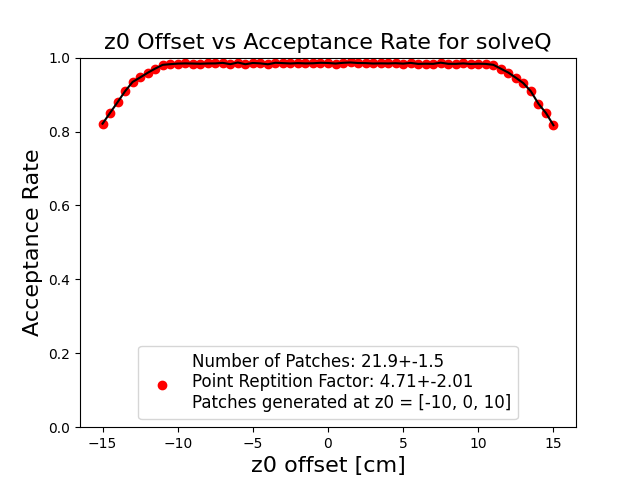
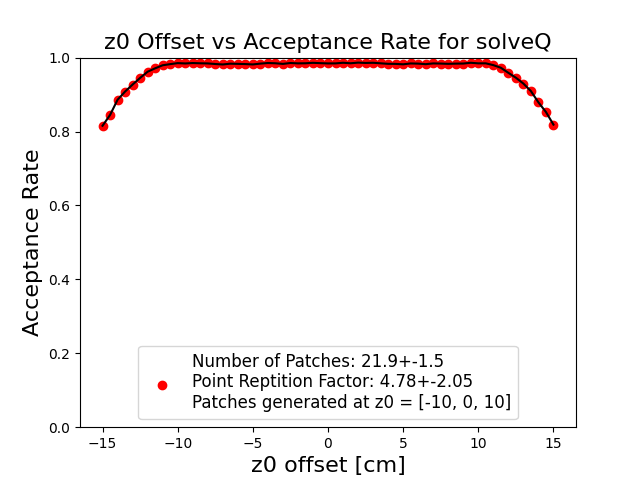
fixed most bugs in algo

diff --git a/cover.py b/cover.py
@@ -583,7 +583,7 @@ class Cover():
             start_index = np.argmin(np.abs(self.data.array[row] - (((-z0-100)*y)/25+z0)))
             if start_index != 0:
                 start_index -= 1
-            init_patch.append(SuperPoint(self.data.array[row, start_index:start_index+n]))
+            init_patch.append(SuperPoint(self.data.array[row][start_index:start_index+n]))
 
         #add to patch
         self.add_patch(Patch(self.env, tuple(init_patch)))
@@ -603,7 +603,7 @@ class Cover():
 
             if start_index != len(self.data.array[row])-1:
                 start_index += 1
-            init_patch.append(SuperPoint(self.data.array[row, start_index-n+1:start_index+1]))
+            init_patch.append(SuperPoint(self.data.array[row][start_index-n+1:start_index+1]))
 
         #add to patch
         self.add_patch(Patch(self.env, tuple(init_patch)))
@@ -676,12 +676,11 @@ class Cover():
         for row in range(5):
             y = 5*(row+1)
             center_index = np.argmin(np.abs(self.data.array[row] - ((y*(center-z0)/25)+z0)))
-            if (center_index -int(n/2)) < 0:
-                init_patch.append(SuperPoint(self.data.array[row, 0:n]))
-            elif (center_index +int(n/2)) > 150:
-                init_patch.append(SuperPoint(self.data.array[row, 150-n:150]))
-            else:
-                init_patch.append(SuperPoint(self.data.array[row, center_index-int(n/2):center_index+int(n/2)]))
+            if (center_index-int(n/2)) < 0:
+                center_index = int(n/2)
+            elif (center_index+int(n/2)) > len(self.data.array[row]):
+                center_index = center_index+int(n/2)-1
+            init_patch.append(SuperPoint(self.data.array[row][center_index-int(n/2):center_index+int(n/2)]))
         #add to patch
         self.add_patch(Patch(self.env, tuple(init_patch)))
 
@@ -729,8 +728,8 @@ class Cover():
             center_index = np.argmin(np.abs(self.data.array[row] - ((y*(center-z0)/25)+z0)))
             if (center_index-int(n/2)) < 0:
                 center_index = int(n/2)
-            elif (center_index+int(n/2)) > len(self.data.array[row]):
-                center_index = center_index+int(n/2)
+            elif (center_index+int(n/2))+1 > len(self.data.array[row]):
+                center_index = len(self.data.array[row])-int(n/2)
             init_patch.append(SuperPoint(self.data.array[row, center_index-int(n/2):center_index+int(n/2)]))
         #add to patch
         self.add_patch(Patch(self.env, tuple(init_patch)))
@@ -779,8 +778,8 @@ class Cover():
             center_index = np.argmin(np.abs(self.data.array[row] - ((y*(center-z0)/25)+z0)))
             if (center_index-int(n/2)) < 0:
                 center_index = int(n/2)
-            elif (center_index+int(n/2)) > len(self.data.array[row]):
-                center_index = center_index+int(n/2)
+            elif (center_index+int(n/2))+1 > len(self.data.array[row]):
+                center_index = len(self.data.array[row])-int(n/2)
             init_patch.append(SuperPoint(self.data.array[row, center_index-int(n/2):center_index+int(n/2)]))
 
         self.add_patch(Patch(self.env, tuple(init_patch)))
@@ -823,8 +822,8 @@ class Cover():
             center_index = np.argmin(np.abs(self.data.array[row] - ((y*(center-z0)/25)+z0)))
             if (center_index-int(n/2)) < 0:
                 center_index = int(n/2)
-            elif (center_index+int(n/2)) > len(self.data.array[row]):
-                center_index = center_index+int(n/2)
+            elif (center_index+int(n/2))+1 > len(self.data.array[row]):
+                center_index = len(self.data.array[row])-int(n/2)
             init_patch.append(SuperPoint(self.data.array[row, center_index-int(n/2):center_index+int(n/2)]))
 
         self.add_patch(Patch(self.env, tuple(init_patch)))
@@ -905,11 +904,14 @@ class Cover():
                 stop_index += 1
             stop_value = self.data.array[i][stop_index]
 
-            if closest_index > stop_index - n +1:
-                patch_ingredients.append(SuperPoint(self.data.array[i, stop_index-n+1:stop_index+1]))
+            if closest_index > stop_index - n + 1:
+                if (stop_index - n +1) < 0:
+                    stop_index = n-1
+                patch_ingredients.append(SuperPoint(self.data.array[i][stop_index-n+1:stop_index+1]))
+
             
             else:
-                patch_ingredients.append(SuperPoint(self.data.array[i, closest_index:closest_index+n]))
+                patch_ingredients.append(SuperPoint(self.data.array[i][closest_index:closest_index+n]))
 
         new_patch = Patch(self.env, tuple(patch_ingredients))
 
@@ -948,10 +950,12 @@ class Cover():
             stop_value = self.data.array[i][stop_index]
 
             if closest_index < stop_index + n - 1:
-                patch_ingredients.append(SuperPoint(self.data.array[i, stop_index:stop_index+n]))
+                if (stop_index + n) > len(self.data.array[i]):
+                    stop_index = int(len(self.data.array[i]) - stop_index-1)
+                patch_ingredients.append(SuperPoint(self.data.array[i][stop_index:stop_index+n]))
             
             else:
-                patch_ingredients.append(SuperPoint(self.data.array[i, closest_index-n+1:closest_index+1]))
+                patch_ingredients.append(SuperPoint(self.data.array[i][closest_index-n+1:closest_index+1]))
 
         new_patch = Patch(self.env, tuple(patch_ingredients))
 
@@ -1071,14 +1075,10 @@ class Cover():
             stop_value = self.data.array[i][stop_index]
 
             if closest_index > stop_index - n + 1:
-                patch_ingredients.append(SuperPoint(self.data.array[i, stop_index-n + 1:stop_index+1]))
+                patch_ingredients.append(SuperPoint(self.data.array[i][ stop_index-n+1:stop_index+1]))
             
             else:
-                try:
-                    patch_ingredients.append(SuperPoint(self.data.array[i, closest_index-1:closest_index + n - 1]))
-                except:
-                    print(closest_index)
-                    patch_ingredients.append(SuperPoint(self.data.array[i, closest_index:closest_index+n]))
+                patch_ingredients.append(SuperPoint(self.data.array[i][closest_index-1:closest_index + n - 1]))
 
         new_patch = Patch(self.env, tuple(patch_ingredients))
 
@@ -1117,16 +1117,12 @@ class Cover():
             stop_value = self.data.array[i][stop_index]
 
             if closest_index < stop_index + n - 1:
-                try:
-                    patch_ingredients.append(SuperPoint(self.data.array[i, stop_index:stop_index+n]))
-                except:
-                    print(stop_index)
-                    break
+                if (stop_index + n) > len(self.data.array[i]):
+                    stop_index = int(len(self.data.array[i]) - stop_index-1)
+                patch_ingredients.append(SuperPoint(self.data.array[i][stop_index:stop_index+n]))
             else:
-                try:
-                    patch_ingredients.append(SuperPoint(self.data.array[i, closest_index-n+2:closest_index+2]))
-                except:
-                    patch_ingredients.append(SuperPoint(self.data.array[i, closest_index-n+1:closest_index+1]))
+                patch_ingredients.append(SuperPoint(self.data.array[i][closest_index-n+2:closest_index+2]))
+
 
         new_patch = Patch(self.env, tuple(patch_ingredients))
 
@@ -1146,9 +1142,9 @@ class Cover():
         if lining =="solveS":
             try:
                 for s in z0:
-                    self.solveS(s, 1, n = n)
+                    self.solveS(z0=s, n = n)
             except:
-                self.solveS(z0, 1, n = n)
+                self.solveS(z0=z0, n = n)
             return
 
         elif lining =="solveS_reverse":

diff --git a/messingaround.py b/messingaround.py
@@ -40,7 +40,7 @@ def all_test(lining, ideal = False):
 
 
 #duplicates('solveQ_relaxed_end', z0 = [-10, 0, 10], events = 1000)
-fourTests(lining = 'solveQ_relaxed_both', solve_at =  [-10, 0, 10], n = 32, z0 = np.arange(-15, 15.5, 0.5), savefig = True)
+#fourTests(lining = 'solveS_center2', solve_at =  [-10, 0, 10], n = 16, z0 = np.arange(-15, 15.5, 0.5), savefig = False)
 #all_test('solveS', False)
 
 #wedge_data = np.loadtxt('Wedged_Spacepoints.txt', max_rows=1, usecols = np.arange(1699)+1)
@@ -48,6 +48,7 @@ fourTests(lining = 'solveQ_relaxed_both', solve_at =  [-10, 0, 10], n = 32, z0 =
 #line = np.genfromtxt(r'Wedge_Data.txt', delimiter=',', max_rows = 1)
 
 file = open("Wedge_Data.txt", 'r')
+'''
 counter = np.zeros(5)
 for i, line in enumerate(file.readlines()):
     d = np.array(ast.literal_eval(line))
@@ -58,12 +59,38 @@ for i, line in enumerate(file.readlines()):
         break
 print(counter)
 print(counter/128)
-'''
-plt.scatter(d[:, 3],d[:, 1])
-plt.plot([15, np.max(d[:, 3])], [0, 25], 'r')
-plt.plot([-15, np.min(d[:, 3])], [0, 25], 'r')
-plt.ylim(-2, 27)
-plt.xlim(-200, 200)
 
-plt.show()
+file.readline()
+line = file.readline()
+d = np.array(ast.literal_eval(line))
+
+#plt.show()
+data.input_data(d)
+cover = Cover(env, data)
+cover.solve(lining = 'solveS_center2')
+cover.plot()
+acceptSlopePlot(events=1, custom = d)
 '''
+z0test = []
+count = []
+acc = []
+for i, line in enumerate(file.readlines()):
+    d = np.array(ast.literal_eval(line))
+    data.input_data(d)
+    cover = Cover(env, data)
+    cover.solve(lining = 'solveS_center2', z0 =[-7.5, 7.5], show = False)
+    count.append(cover.n_patches)
+    acc.append(acceptSlopePlot(events=1, custom = d, show = False))
+    for z0 in np.arange(-15, 15.5, 0.5):
+        z0test.append(acceptSlopePlot(events=1, custom = d, show = False, solve_at=[-7.5, 7.5], z0 = z0))
+    if i == 0:
+        break
+print(f'acc: {np.mean(acc)}')
+print(f'mean: {np.mean(count)}')
+plt.scatter(np.arange(-15, 15.5, 0.5), z0test, color = 'r')
+plt.plot(np.arange(-15, 15.5, 0.5), z0test, color = 'k')
+plt.xlabel('z0 offset [cm]', fontsize = 16)
+plt.ylabel('Acceptance Rate',  fontsize = 16)
+plt.ylim(0, 1.0)
+plt.title(f'z0 Offset vs Acceptance Rate for Wedge 1', fontsize = 16)
+plt.show()

diff --git a/test_modules.py b/test_modules.py
@@ -93,7 +93,7 @@ def fourTests(clustering:str = "", lining:str = "solveS", solve_at = 0, z0 = 0, 
     plt.show()
     
     
-def acceptSlopePlot(clustering:str = "", lining:str = "solveS", events=100, lines=1000, savefig=False, ideal=False):
+def acceptSlopePlot(clustering:str = "", lining:str = "solveS", events=100, lines=1000, z0= 0, solve_at=0, savefig=False, ideal=False, show = True, custom=''):
     
     percentage_accepted = [0 for _ in range(lines)] 
     
@@ -104,10 +104,12 @@ def acceptSlopePlot(clustering:str = "", lining:str = "solveS", events=100, line
             data = DataSet(env, n_points=150, equal_spacing = True)
         else:
             data = DataSet(env, n_points=150)
+        if '' not in custom:
+            data.input_data(custom)
         cover = Cover(env, data) 
-        cover.solve(clustering=clustering, lining=lining, nlines=100)
+        cover.solve(clustering=clustering, lining=lining, z0 = solve_at, show = False)
         
-        lg = LineGenerator(env, 0.0)
+        lg = LineGenerator(env, z0)
         test_lines = lg.generateEvenGrid(lines)
         co_tan = []
         
@@ -128,8 +130,12 @@ def acceptSlopePlot(clustering:str = "", lining:str = "solveS", events=100, line
 
     percentage_accepted = [x / events for x in percentage_accepted]
     mean_accept = format(np.mean(percentage_accepted), ".3f")
-    plt.plot(co_tan, percentage_accepted, c="b", label = "Mean acceptance: "+mean_accept)
+    
+    if show == False:
+        return np.mean(percentage_accepted)
+
     print(f"({clustering}, {lining}) - {mean_accept}")
+    plt.plot(co_tan, percentage_accepted, c="b", label = "Mean acceptance: "+mean_accept)
     
     plt.title(f"Acceptance Rate ({clustering}, {lining})", fontsize = '20')
     plt.xlabel("dZ/dr", fontsize = '16')

diff --git a/data.py b/data.py
@@ -30,15 +30,19 @@ class DataSet(Environment):
             self.array = array * limits[:, None] 
 
     def input_data(self, wedge):
-        pass
-            
-        
+        a = [[],[],[],[],[]]
+        for point in wedge:
+            a[int(point[0]-1)].append(point[3])
+        self.array = []
+        for i in range(5):
+            self.array.append(np.sort(np.array(a[i])))
+
     def plot(self, show_lines = False): 
         
         nums = np.arange(1, self.env.layers + 1)
         heights = self.env.layers * np.linspace(nums, nums, self.n_points).T
-        
-        plt.scatter(self.array, heights, c="g", s=2)
+        for r, x in enumerate(self.array):
+            plt.scatter(x, np.full_like(x, 5*(r+1)), c="g", s=2)
         
         max_height = heights[-1][-1]
         
